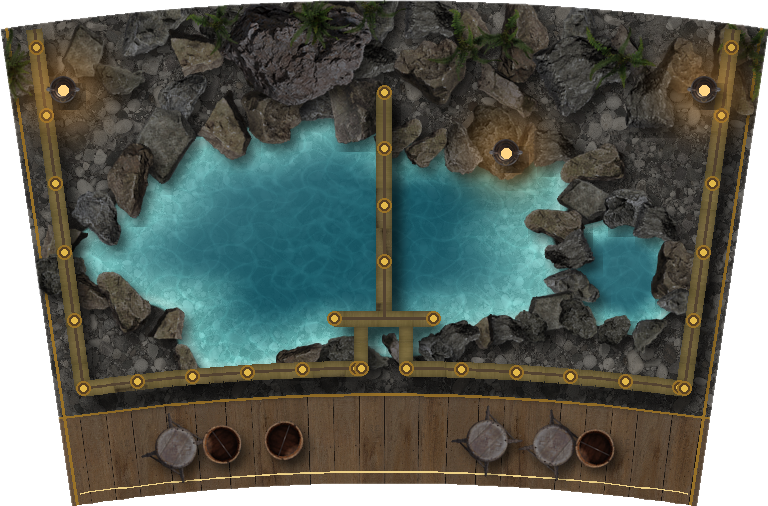
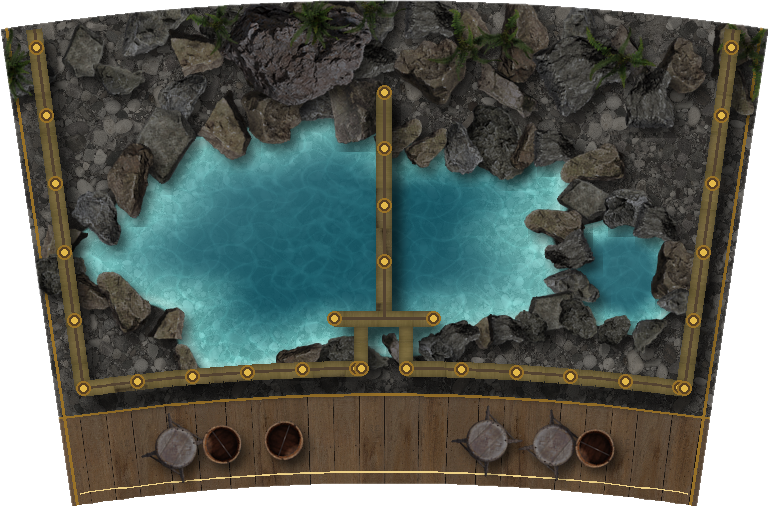
feat: add hot springs lv2 and lv3 art with maxLevel support for building fx

Changed region(s): [[0.5938, 0.2075, 0.7188, 0.3854], [0.8438, 0.0889, 1.0, 0.2668], [0.0, 0.0889, 0.1562, 0.2668]]

diff --git a/src/map/buildingArt.test.ts b/src/map/buildingArt.test.ts
@@ -143,11 +143,13 @@ describe('placeFx', () => {
     { type: 'smoke', x: 0.5, y: 0 },
     { type: 'glow', x: 0.5, y: 0.5, color: '#ff7a1a', radius: 0.08 },
     { type: 'sparks', x: 0.5, y: 1, minLevel: 2 },
+    { type: 'glow', x: 0.2, y: 0.2, color: '#ffb347', radius: 0.05, minLevel: 2, maxLevel: 2 },
   ];
 
   it.each([
     { level: 1, types: ['smoke', 'glow'] },
-    { level: 2, types: ['smoke', 'glow', 'sparks'] },
+    { level: 2, types: ['smoke', 'glow', 'sparks', 'glow'] },
+    { level: 3, types: ['smoke', 'glow', 'sparks'] },
   ])('keeps the effects allowed at level $level', ({ level, types }) => {
     const placed = placeFx(artPlacement(outerSlot(4.74, 21.78)), effects, level);
     expect(placed.map(({ fx }) => fx.type)).toEqual(types);

diff --git a/src/model/schema.ts b/src/model/schema.ts
@@ -39,6 +39,8 @@ const fxBase = {
   y: artCoordinate,
   /** The effect only shows from this level on. */
   minLevel: z.number().int().positive().optional(),
+  /** ...and up to this level (for details later art replaces). */
+  maxLevel: z.number().int().positive().optional(),
 };
 
 /** Animated effects drawn over finished building art (never baked into the PNG). */

diff --git a/src/map/buildingArt.ts b/src/map/buildingArt.ts
@@ -134,6 +134,6 @@ export function placeFx(
   level: number,
 ): PlacedFx[] {
   return effects
-    .filter((fx) => level >= (fx.minLevel ?? 1))
+    .filter((fx) => level >= (fx.minLevel ?? 1) && level <= (fx.maxLevel ?? Infinity))
     .map((fx) => ({ fx, point: artPointToMap(placement, fx) }));
 }
